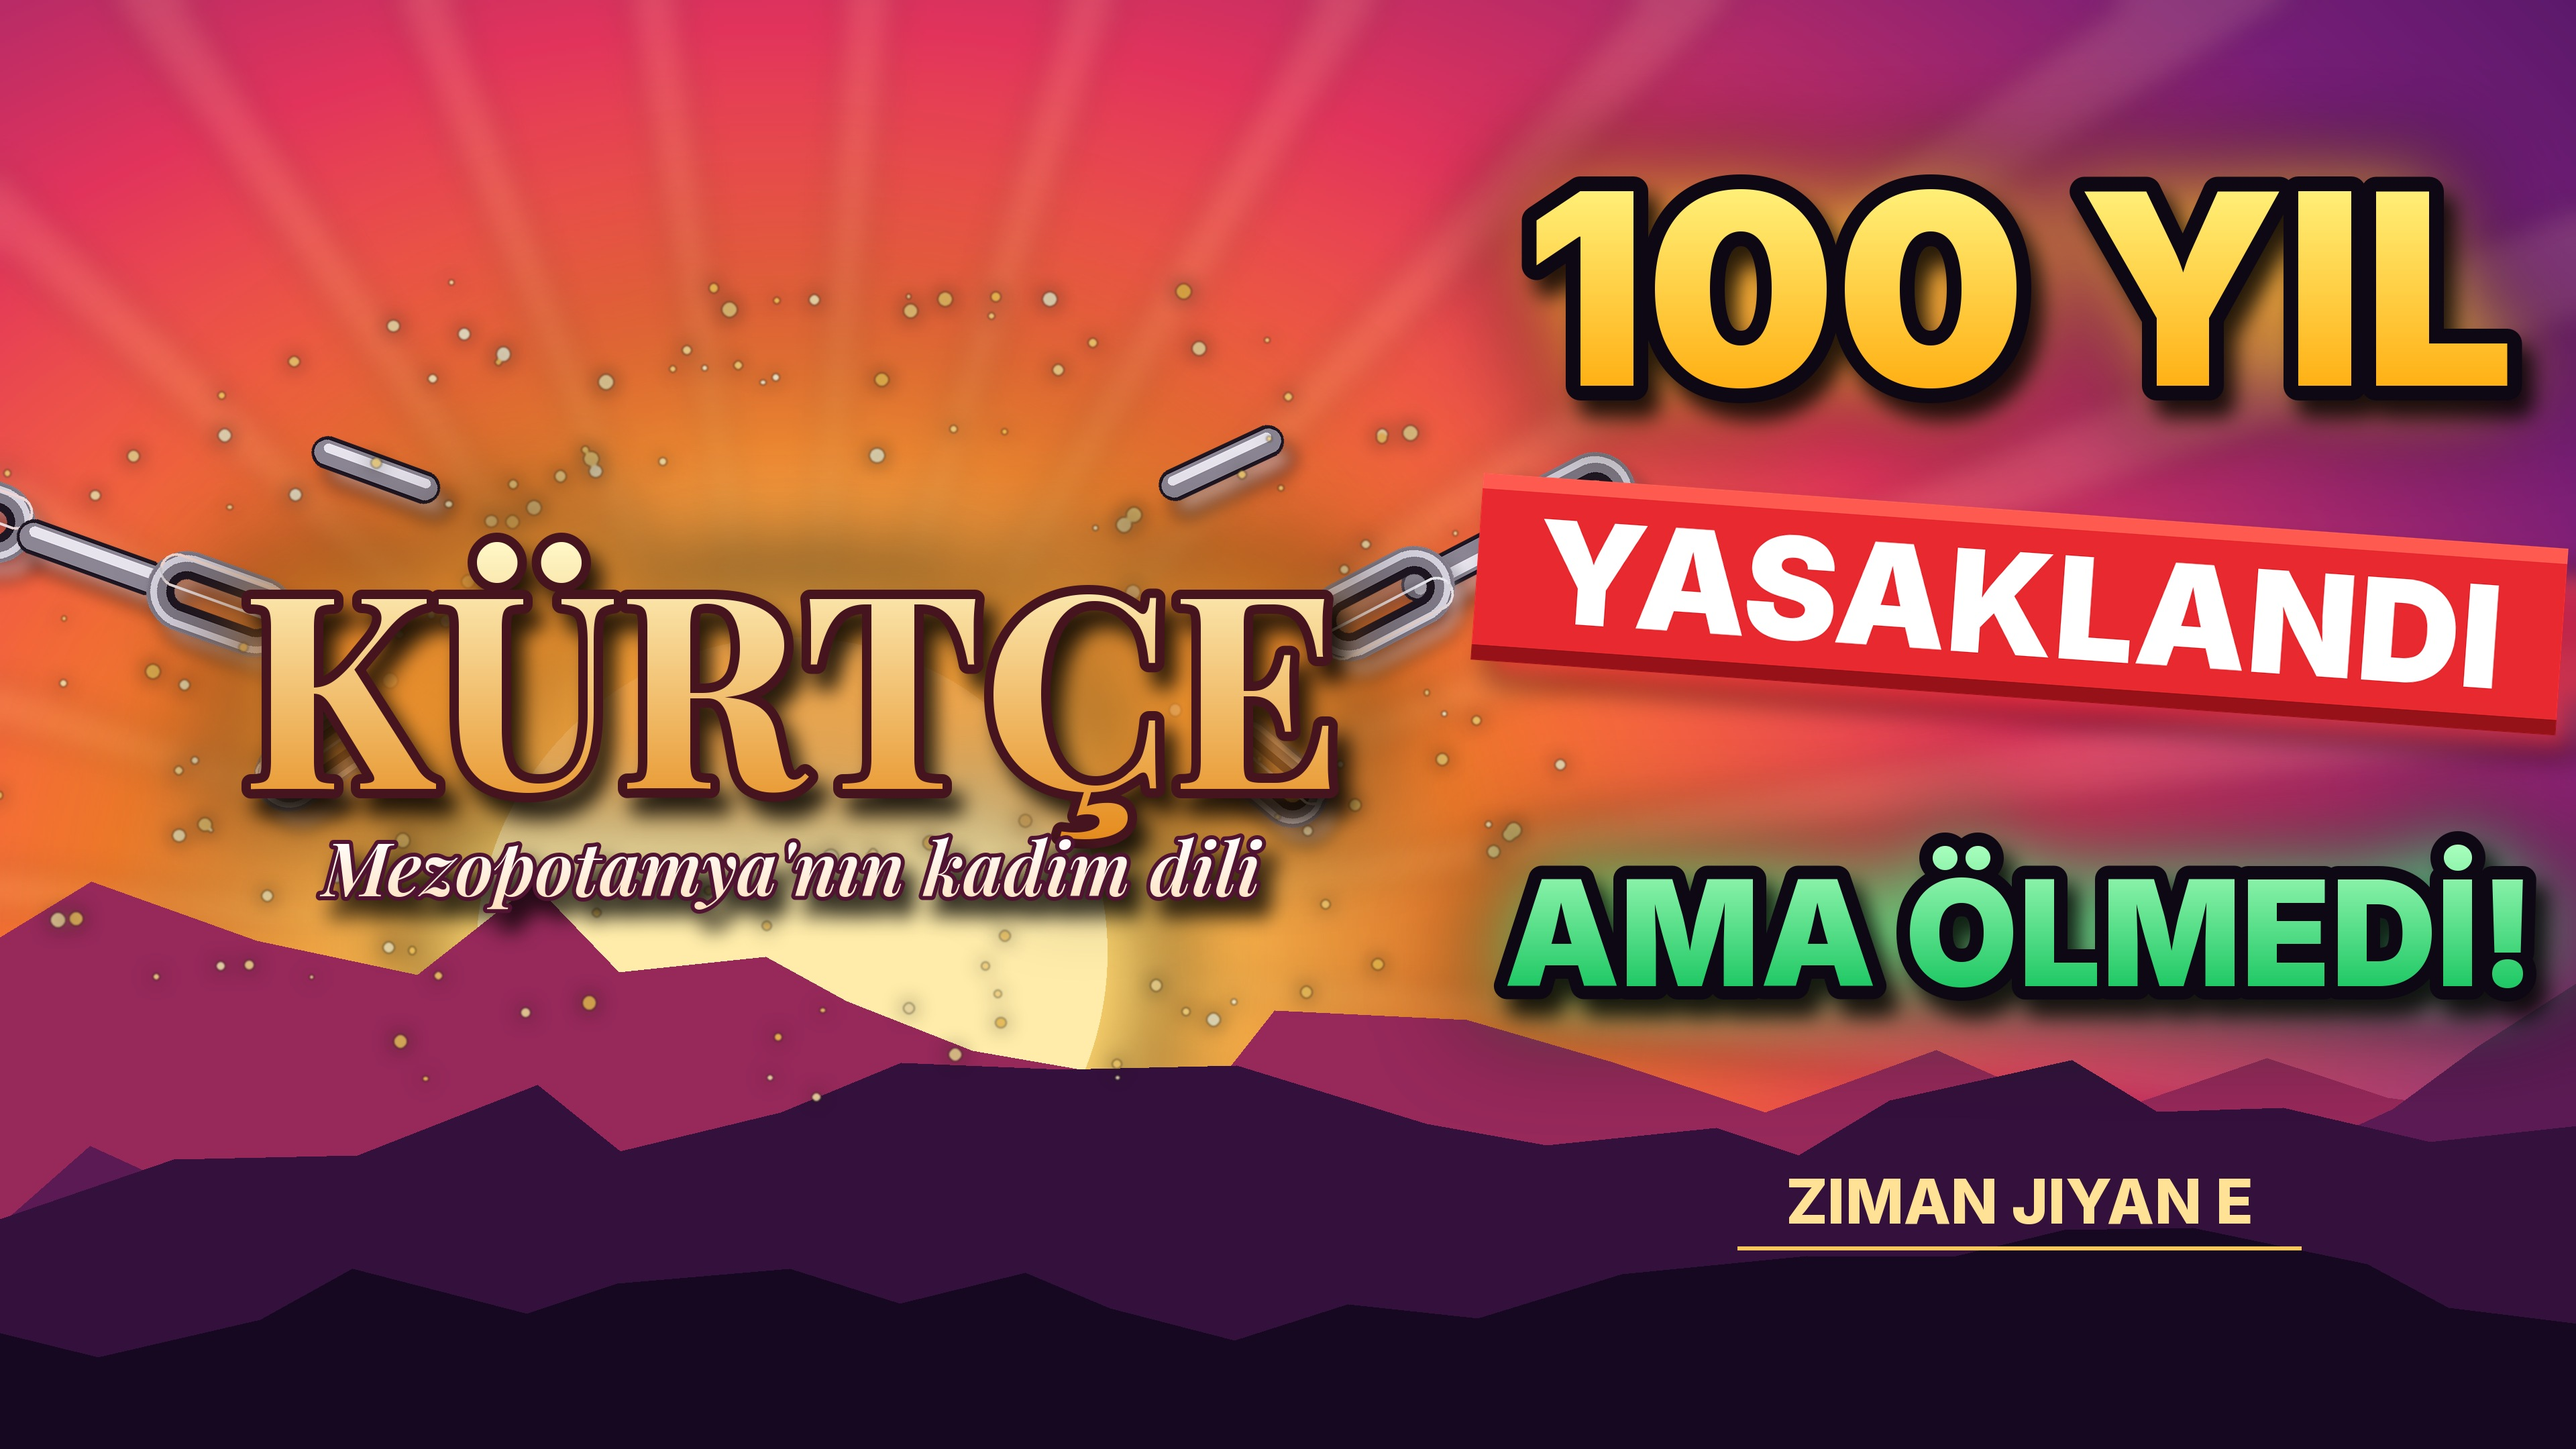
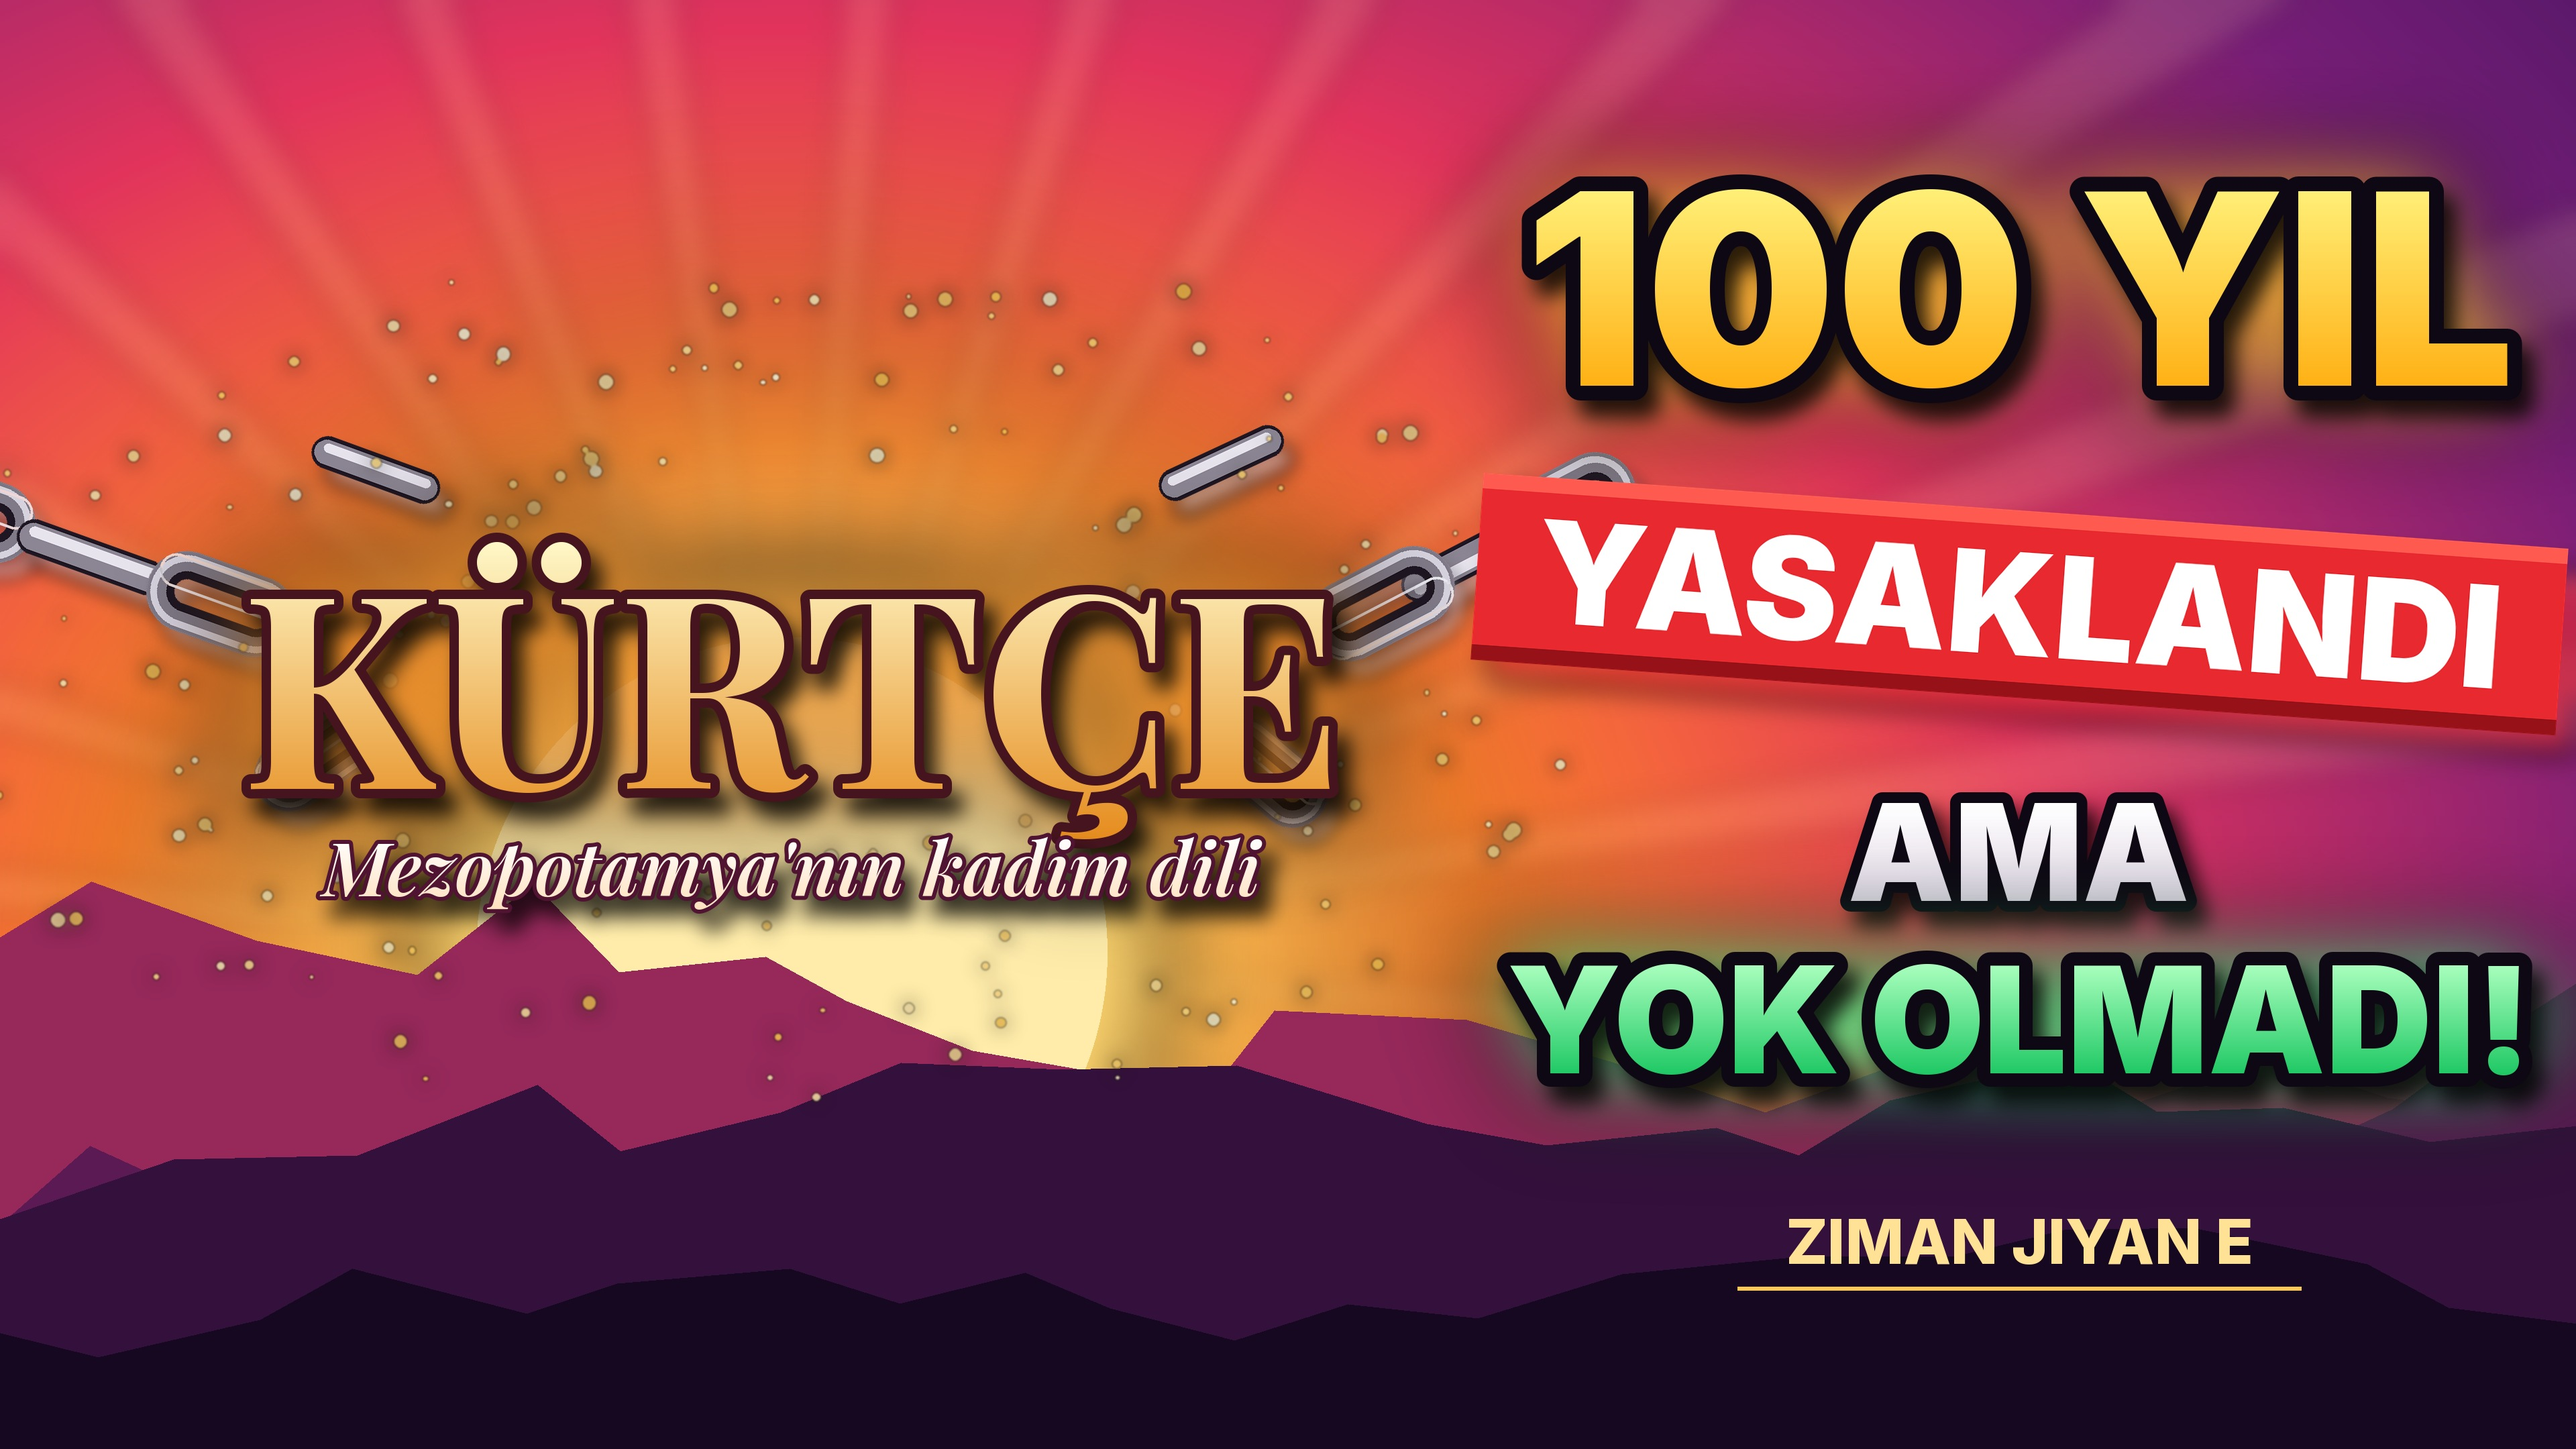
Thumbnail hook: "AMA YOK OLMADI!" on two lines
Claude-Session: https://claude.ai/code/session_015dXLoC3bx8UYQ9q8k9QDTR

Changed region(s): [[0.5625, 0.5273, 1.0, 0.8995]]

diff --git a/tools/kurdish-video/video/thumbnail_color.py b/tools/kurdish-video/video/thumbnail_color.py
@@ -236,14 +236,16 @@ def main():
                   glow=(255, 200, 40))
     fb = fit("YASAKLANDI", "Inter_900Black.ttf", 1450, 300)
     banner(img, cx, 900, "YASAKLANDI", fb, angle=-4)
-    f3 = fit("AMA ÖLMEDİ!", "Inter_900Black.ttf", 1560, 330)
-    gradient_text(img, (cx, 1390), "AMA ÖLMEDİ!", f3, (170, 255, 190), (30, 200, 100), stroke=20, stroke_col=INK,
+    fa = F("Inter_900Black.ttf", 200)
+    gradient_text(img, (cx, 1270), "AMA", fa, (255, 255, 255), (235, 225, 240), stroke=16, stroke_col=INK)
+    f3 = fit("YOK OLMADI!", "Inter_900Black.ttf", 1560, 340)
+    gradient_text(img, (cx, 1520), "YOK OLMADI!", f3, (170, 255, 190), (30, 200, 100), stroke=20, stroke_col=INK,
                   glow=(60, 255, 140))
 
     # alt serit
     d = ImageDraw.Draw(img)
-    d.text((cx, 1790), "ZIMAN JIYAN E", font=F("Inter_800ExtraBold.ttf", 92), fill=(255, 226, 150, 255), anchor="mm")
-    d.line([(cx - 420, 1860), (cx + 420, 1860)], fill=(255, 200, 90, 220), width=6)
+    d.text((cx, 1850), "ZIMAN JIYAN E", font=F("Inter_800ExtraBold.ttf", 92), fill=(255, 226, 150, 255), anchor="mm")
+    d.line([(cx - 420, 1920), (cx + 420, 1920)], fill=(255, 200, 90, 220), width=6)
 
     os.makedirs(OUT, exist_ok=True)
     rgb = img.convert("RGB")
